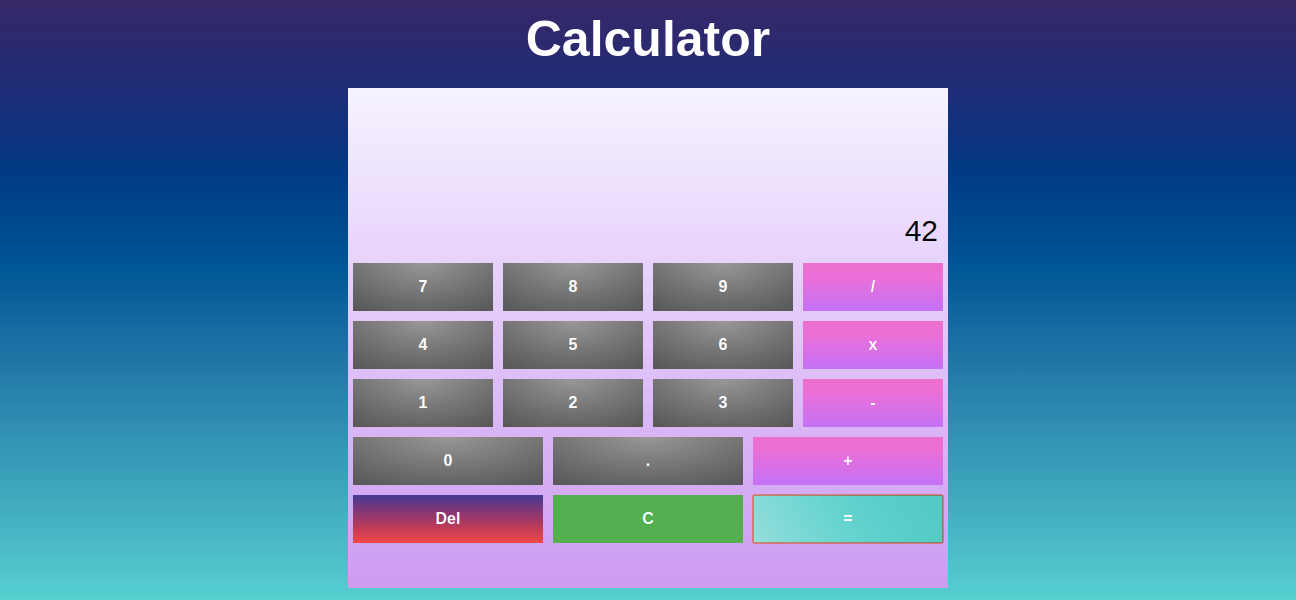
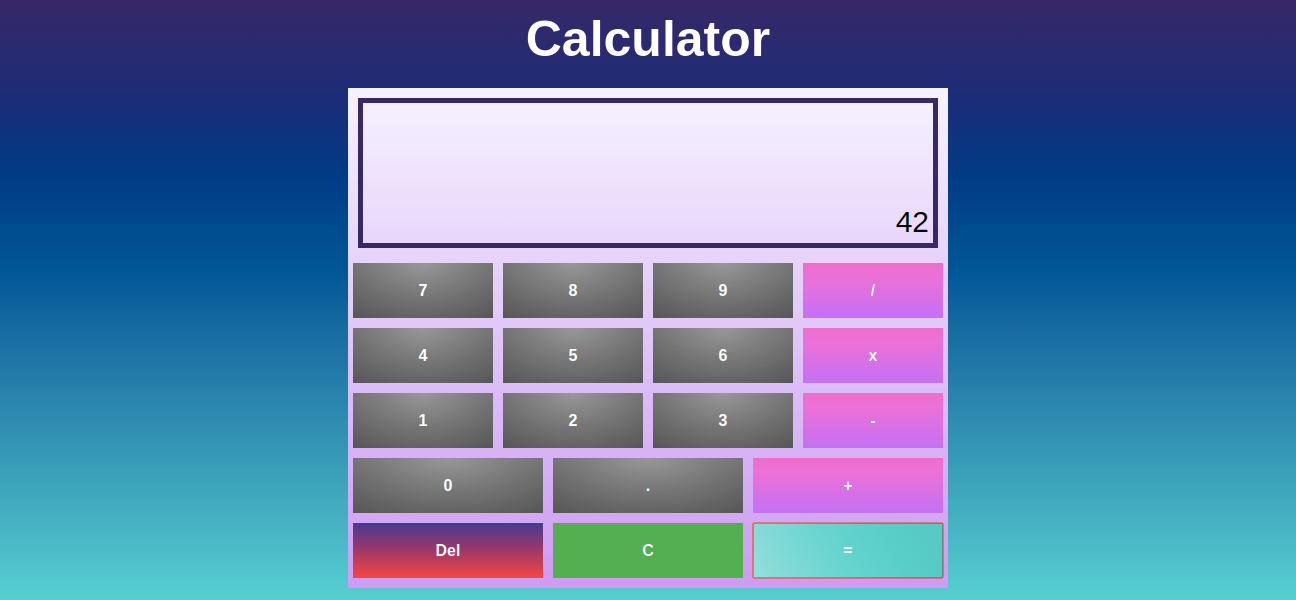
Style the display

Changed region(s): [[0.2469, 0.69, 0.7407, 0.99], [0.2469, 0.51, 0.7407, 0.66], [0.2778, 0.15, 0.7407, 0.42]]

diff --git a/styles/style.css b/styles/style.css
@@ -36,13 +36,16 @@ h1 {
     flex-wrap: wrap;
     color: black;
     margin: 10px;
+    padding: 4px;
     font-size: 30px;
     font-weight: 500;
     word-break: break-word;
+    border: 5px solid #330867;
 }
 
 .buttons {
     width: 100%;
+    height: 65px;
     display: flex;
     justify-content: space-around;
 }
